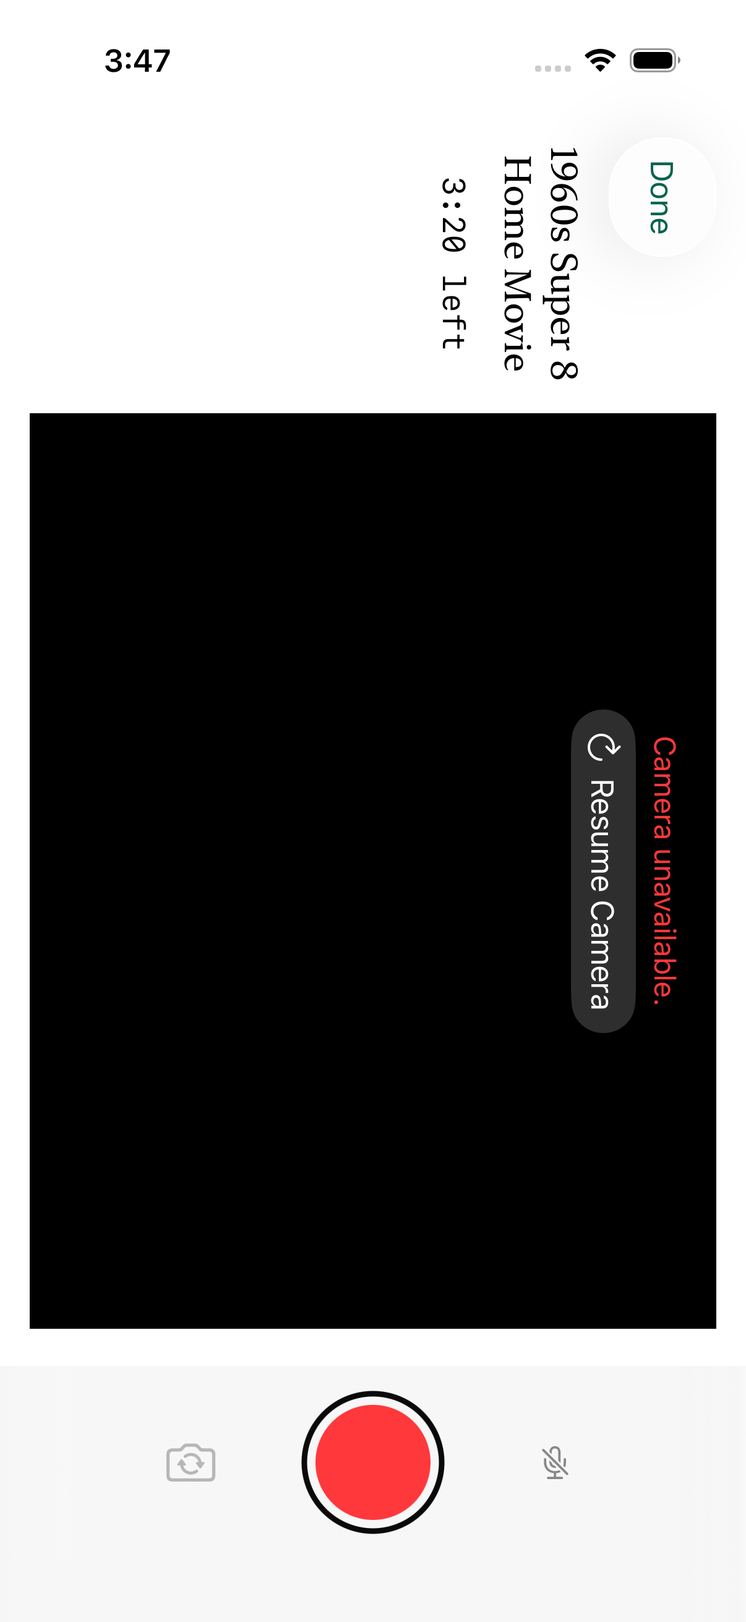
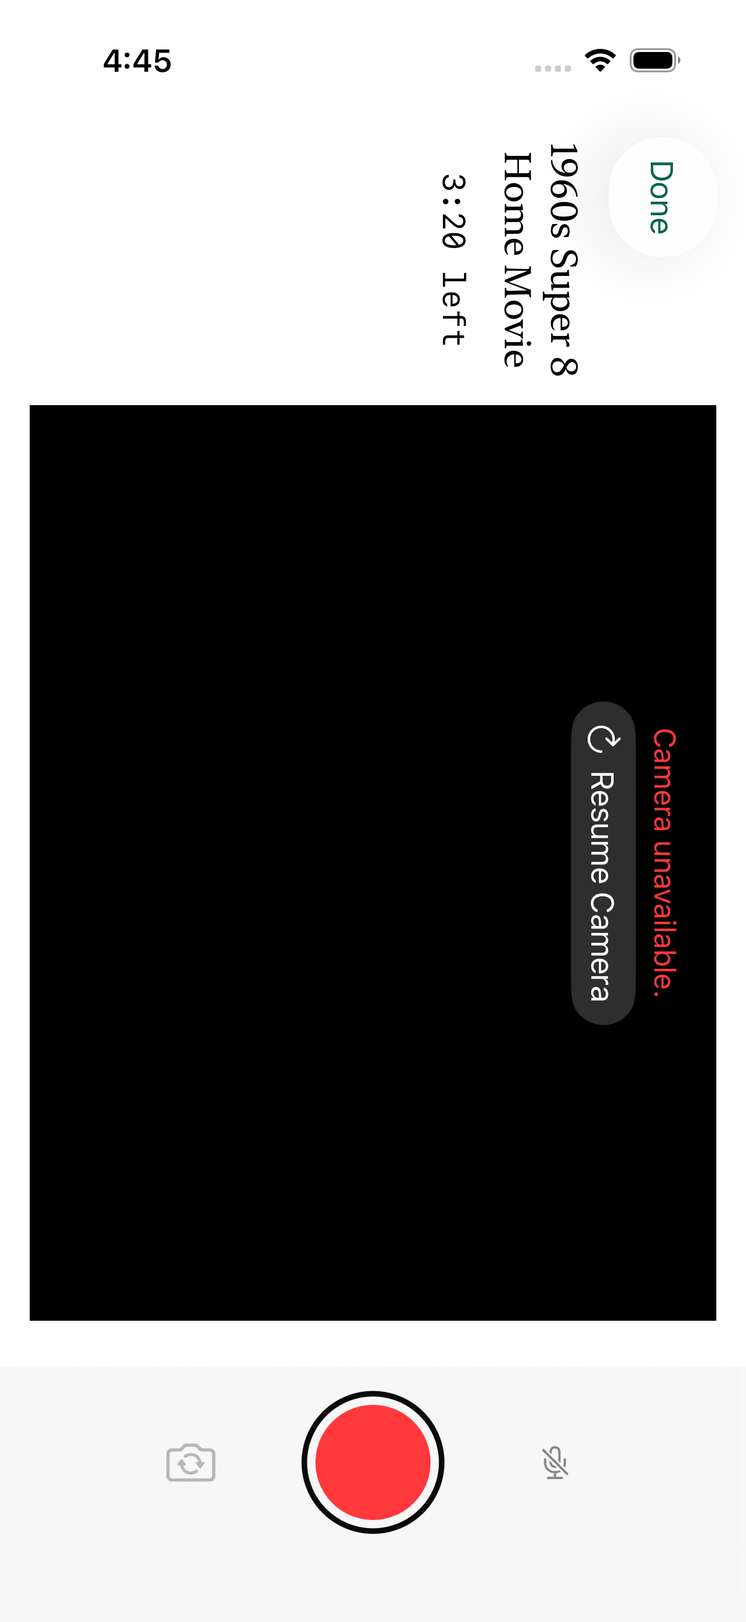
fix(app): keep Done and the header at the top of the shooting screen and centre the viewfinder in the spare room
On the Instant and the 6x6, whose square viewfinder leaves more room than the header needs, the upright header was
centred in the room it was given, which left Done floating below the status bar and a wide gap under the count.
The header's lines now stay against the top in every hold, so Done is in the same place on every Camera and every
iPhone, and the room left over is shared: half to the header's turned length when held sideways, half below the
viewfinder, which so sits centred between the header's lines and the shutter bar.

Adds the Instant to the screen tests, which now also check Done's place, and refreshes the screenshots on the
iPhone SE, iPhone 13 mini and iPhone 17 Pro.

diff --git a/App/Immerse/Tests/CaptureSidewaysTests.swift b/App/Immerse/Tests/CaptureSidewaysTests.swift
@@ -108,13 +108,14 @@ final class CaptureSidewaysTests: XCTestCase {
     /// `available` points of room between its top and the shutter bar, as the screen lays them out in a window.
     private func column(
         available: CGFloat, aspect: CGFloat, controls: CGFloat = 0, turn: HeldTurn = .upright, width: CGFloat = 358
-    ) async throws -> (header: CGRect, viewfinder: CGRect, controls: CGRect, size: CGSize) {
+    ) async throws -> (header: CGRect, firstLine: CGRect, viewfinder: CGRect, controls: CGRect, size: CGSize) {
         let frames = Frames()
         func record(_ name: String) -> (GeometryProxy) -> CGRect { { $0.frame(in: .named("column")) } }
         let view = CaptureColumn(available: available) {
             TurnedBlock(length: 128, reservesLength: true) {
                 VStack(spacing: 12) {
                     Color.clear.frame(height: 44)
+                        .onGeometryChange(for: CGRect.self, of: record("first")) { frames.firstLine = $0 }
                     Color.clear.frame(height: 28)
                     Color.clear.frame(height: 22)
                 }.frame(maxWidth: .infinity)
@@ -140,22 +141,30 @@ final class CaptureSidewaysTests: XCTestCase {
         window.makeKeyAndVisible()
         defer { window.isHidden = true; window.rootViewController = nil }
         try await Task.sleep(for: .milliseconds(300))
-        return (frames.header, frames.viewfinder, frames.controls, host.sizeThatFits(in: CGSize(width: width, height: 3000)))
+        return (frames.header, frames.firstLine, frames.viewfinder, frames.controls,
+                host.sizeThatFits(in: CGSize(width: width, height: 3000)))
     }
 
-    private final class Frames { var header = CGRect.zero, viewfinder = CGRect.zero, controls = CGRect.zero }
+    private final class Frames { var header = CGRect.zero, firstLine = CGRect.zero, viewfinder = CGRect.zero, controls = CGRect.zero }
 
-    /// With room to spare, the viewfinder keeps the screen's full width and the header gets what is left over, as far as
-    /// 300 points, so held on its side its lines need not wrap.
-    func testRoomToSpareGoesToTheHeaderAfterTheViewfinderHasItsFullWidth() async throws {
+    /// With room to spare, the viewfinder keeps the screen's full width and the rest is shared: half to the header, as far as
+    /// 300 points in all, so held on its side its lines need not wrap, and half below the viewfinder, which sits centred in the
+    /// room under the header's lines. Held upright, those lines stay against the top.
+    func testRoomToSpareIsSharedAboveAndBelowTheViewfinderAfterItHasItsFullWidth() async throws {
         let big = try await column(available: 700, aspect: 1)
         XCTAssertEqual(big.viewfinder.width, 358, accuracy: 0.5)
         XCTAssertEqual(big.viewfinder.height, 358, accuracy: 0.5)
-        XCTAssertEqual(big.header.height, 300 - 0, accuracy: 0.5, "The header is capped at 300 points")
-        XCTAssertEqual(big.viewfinder.minY, 300 + 12, accuracy: 0.5)
+        let spare = 700 - 12 - 128 - 358.0
+        XCTAssertEqual(big.header.height, 128 + spare / 2, accuracy: 0.5, "Half the spare room is the header's")
+        XCTAssertEqual(big.viewfinder.minY, 128 + spare / 2 + 12, accuracy: 0.5)
+        XCTAssertEqual(700 - big.viewfinder.maxY, spare / 2, accuracy: 0.5, "Half is below the viewfinder")
+        XCTAssertEqual(big.firstLine.minY, 0, accuracy: 0.5, "Held upright, the header's first line is against the top")
         let tight = try await column(available: 520, aspect: 1)
         XCTAssertEqual(tight.viewfinder.height, 358, accuracy: 0.5, "The viewfinder has its full width first")
-        XCTAssertEqual(tight.header.height, 520 - 358 - 12, accuracy: 0.5, "The header has the rest")
+        XCTAssertEqual(tight.header.height, 128 + (520 - 12 - 128 - 358.0) / 2, accuracy: 0.5)
+        XCTAssertEqual(tight.firstLine.minY, 0, accuracy: 0.5)
+        let huge = try await column(available: 1200, aspect: 1)
+        XCTAssertEqual(huge.header.height, 300, accuracy: 0.5, "The header is capped at 300 points")
     }
 
     /// Short of room, the viewfinder keeps its shape and gives up width, so the whole of it shows above the shutter bar.

diff --git a/App/Immerse/Sources/CaptureColumn.swift b/App/Immerse/Sources/CaptureColumn.swift
@@ -22,8 +22,10 @@ extension View {
 /// that the room leaves after the header and the controls, narrower than the screen where the room is short, and never
 /// smaller than `minimumViewfinder`, below which the screen scrolls instead, as at the largest text sizes.
 ///
-/// Where the room is more than the viewfinder at the screen's full width needs, the header gets the rest, up to
-/// `maximumHeader`, so that held on its side the Camera's name and its count can each read on one line.
+/// Where the room is more than the viewfinder at the screen's full width needs, the rest is shared: half goes above the
+/// viewfinder, to the header (up to `maximumHeader` in all), so that held on its side the Camera's name and its count can
+/// each read on one line, and half below it. Held upright the header's lines stay against the top, so Done is where it is
+/// on every Camera, with the viewfinder centred in the room under them.
 ///
 /// Nothing here depends on how the iPhone is held, so the viewfinder is the same size in the same place in every hold:
 /// the header and the controls reserve their heights for every hold (`TurnedBlock`, `CaptionedSlider`).
@@ -67,7 +69,8 @@ struct CaptureColumn: Layout {
             let ideal = width / aspect
             var height = ideal
             if room - headerMinimum >= ideal {
-                headerHeight = min(max(headerMinimum, room - ideal), max(maximumHeader, headerMinimum))
+                let spare = room - headerMinimum - ideal
+                headerHeight = headerMinimum + min(spare / 2, max(0, maximumHeader - headerMinimum))
             } else {
                 height = max(minimumViewfinder, room - headerMinimum)
             }

diff --git a/App/Immerse/UITests/CaptureSidewaysUITests.swift b/App/Immerse/UITests/CaptureSidewaysUITests.swift
@@ -13,6 +13,12 @@ final class CaptureSidewaysUITests: XCTestCase {
         try check(id: "mediumFormat6x6", name: "6×6", fillsTheRoom: false)
     }
 
+    /// The Instant's square viewfinder keeps the screen's full width where the room allows, so the room left over is
+    /// shared above and below it.
+    func testInstantShootingScreenKeepsItsLayoutHeldSideways() throws {
+        try check(id: "instant1970s", name: "Instant", fillsTheRoom: false)
+    }
+
     /// The tallest viewfinder: the 2:3 box, with the error, the message and Resume Camera over it.
     func testDisposableShootingScreenKeepsItsLayoutHeldSideways() throws {
         try check(id: "disposable1990s", name: "Disposable", fillsTheRoom: true)
@@ -76,6 +82,10 @@ final class CaptureSidewaysUITests: XCTestCase {
         XCTAssertLessThan(upright.window.width, upright.window.height, "The shooting screen is portrait")
         XCTAssertGreaterThan(upright.remaining.width, upright.remaining.height, "Upright, the count reads across")
         try checkFits(upright, app, "upright", fillsTheRoom: fillsTheRoom)
+        // Held upright, Done sits just below the status bar on every Camera and every iPhone, with the name and the count
+        // right under it, whatever room the viewfinder leaves.
+        XCTAssertLessThanOrEqual(upright.done.minY, upright.window.minY + 90, "Done is just below the status bar")
+        XCTAssertLessThanOrEqual(upright.remaining.minY - upright.done.maxY, 70, "The name and the count follow Done closely")
         retainFrames(upright, name: name, hold: "portrait")
         retainScreenshot(name: "\(name)-capture-portrait")
 

diff --git a/App/Immerse/Sources/HeldTurn.swift b/App/Immerse/Sources/HeldTurn.swift
@@ -140,8 +140,9 @@ private struct TurnedLayout: Layout {
     func placeSubviews(in bounds: CGRect, proposal: ProposedViewSize, subviews: Subviews, cache: inout ()) {
         guard let child = subviews.first else { return }
         guard turn.isSideways else {
+            // Against the top: where a reserving block is taller than its upright form, the room is left below it.
             let size = child.sizeThatFits(ProposedViewSize(width: bounds.width, height: nil))
-            child.place(at: CGPoint(x: bounds.minX, y: bounds.midY), anchor: .leading, proposal: ProposedViewSize(size))
+            child.place(at: CGPoint(x: bounds.minX, y: bounds.minY), anchor: .topLeading, proposal: ProposedViewSize(size))
             return
         }
         let size = sidewaysSize(child, proposal)

diff --git a/Evidence/NativeApp/capture-sideways-zoom-068.md b/Evidence/NativeApp/capture-sideways-zoom-068.md
@@ -49,7 +49,9 @@ With the iPhone on its side (`HeldTurn.swift`) they turn to read upright, the ho
 
 - The header (Done, the Camera's name, what is left and, once a Film is complete, "Film complete" or "Pack complete") is one block above the viewfinder.
   It is laid out as the portrait header it is, 128 pt wide at least at the default text size (scaled with Dynamic Type) and as tall as that makes it, then turned as a whole and put against the edge of the screen that is the top for the person holding the iPhone.
-  Where the screen has room to spare, up to 300 pt, it is laid out longer, so the Camera's name and its count each read on one line: the Instant on a tall iPhone does; where the room is short, as on the iPhone SE, they wrap.
+  Held upright its lines stay against the top, so Done sits just below the status bar in the same place on every Camera and every iPhone, with the name and the count right under it.
+  Where the screen has room to spare, half of it is laid out into the header's turned length, up to 300 pt in all, so the Camera's name and its count each read on one line: the Instant on a tall iPhone does; where the room is short, as on the iPhone SE, they wrap.
+  The other half is below the viewfinder, which so sits centred in the room under the header's lines and above the shutter bar.
 - The error, the message, **Open iPhone Settings**, **Resume Camera**, the notes ("Manual focus unavailable on this lens", "Flash unavailable on this lens", "Fixed exposure unavailable on this lens") and the Disposable's low-light cue sit in one dark block over the viewfinder, against the edge that is its top as the iPhone is held, turned as one block that is never longer than the box.
   Being over the viewfinder, a message coming or going never moves it, and the camera icon the empty frame shows gives way to them.
   "Saved" shows there for 2.5 seconds after each capture and then goes; every other notice stays while its cause does.
@@ -95,7 +97,8 @@ No other product string changed.
 
 `CaptureColumn` is a `Layout` of three parts, the header, the viewfinder and the controls, given the room between the top of the screen's safe area and the shutter bar (the size of the `GeometryReader` in `CaptureView`, which already leaves out the safe areas and the bar, less 12 pt above and below).
 It measures the controls first and then the header at its least, which for the header is its portrait height or 128 pt, whichever is more, and gives the viewfinder what is left, down to 220 pt, below which the screen scrolls, as at the largest text sizes; the box keeps its Camera's shape and is as wide as that makes it, at most the screen's width.
-Where the room is more than the viewfinder at the screen's full width needs, the header gets the rest, up to 300 pt.
+Where the room is more than the viewfinder at the screen's full width needs, the rest is shared: half goes above the viewfinder, which makes the header's frame that much taller, up to 300 pt in all, and half below it.
+The first version gave all of it to the header and centred the header's lines in it, which left Done floating about 90 pt below the status bar and a gap of about 80 pt under the count on the Instant and the 6×6 on the iPhone 17 Pro; the lines now stay against the top and the viewfinder is centred.
 Nothing in this depends on how the iPhone is held, so the viewfinder is the same size in the same place in every hold: the header reserves the greater of its upright and its turned heights, and a slider row is as tall as its turned caption in either hold.
 The hosted tests of the column's arithmetic (below) and the screen tests' frames hold it.
 `TurnedBlock` uses `ViewThatFits` only to choose between the turned header and a copy of it that scrolls across the screen, which happens when the turned header is wider than the screen, at the largest text sizes.
@@ -103,7 +106,7 @@ The hosted tests of the column's arithmetic (below) and the screen tests' frames
 
 The viewfinder's box as the screen tests measured it, in points, the same in all three holds in every case (a Film with no controls, since the simulator has no camera to report any, so the 6×6 shows no sliders):
 
-| iPhone (simulator, iOS 26.5) | Screen | 6×6 | Disposable (2:3) | Super 8 (3:4) |
+| iPhone (simulator, iOS 26.5) | Screen | Instant and 6×6 | Disposable (2:3) | Super 8 (3:4) |
 | --- | --- | --- | --- | --- |
 | iPhone SE (3rd generation) | 375 × 667 | 343 × 343 | 247 × 371 | 278 × 371 |
 | iPhone 13 mini | 375 × 812 | 343 × 343 | 301 × 452 | 339 × 452 |
@@ -111,6 +114,7 @@ The viewfinder's box as the screen tests measured it, in points, the same in all
 
 With its two sliders raised, as a camera that can focus by hand reports them, the 6×6's box on the SE is 223 × 223 (the hosted screenshot [iphone-se-6x6-with-controls-portrait.png](capture-sideways-zoom-068/iphone-se-6x6-with-controls-portrait.png)).
 On every one the box ends above the shutter bar, which the screen tests assert, and the Disposable's and the Super 8's end within 40 pt of it, the room being what sets their size.
+The Instant's and the 6×6's squares are as wide as the screen allows, so the room left over (on the iPhone 17 Pro the box runs from 280 pt to 650 pt, and the shutter's frame starts at 744 pt) is shared above and below them; the screen tests assert that Done is within 90 pt of the top of the screen and the count within 70 pt under Done on every Camera and every iPhone.
 
 ### The 6×6's zoom steps
 
@@ -164,7 +168,7 @@ Development center-crops every capture to a square and scales it to 3072 by 3072
 | The held turn follows how the iPhone is held; a block reserving its length is the same height in every hold; a turned block takes the room it needs; a block that does not reserve takes its turned footprint | `CaptureSidewaysTests` (hosted) |
 | The column's arithmetic, laid out in a window: with room to spare the viewfinder keeps the screen's full width and the header gets the rest, to 300 pt; short of room the viewfinder keeps its shape and gives up width, with the controls taking theirs first; it is never under 220 pt; and its frame, the header's height and the controls' frame are identical in all three holds, for the shape of every Camera, with and without controls, at four amounts of room | `CaptureSidewaysTests` (hosted) |
 | Every Camera's shooting screen held upright and on each side at the default and the largest text size, with the lens controls and low-light cue a lens would raise, kept as screenshots | `CaptureSidewaysTests.testCaptureScreensHeldSidewaysKeepTheLayoutAndTurnTheText` |
-| On the 6×6, the Disposable and the Super 8, in a simulator turned upright, to its left and to its right, on the iPhone SE, the iPhone 13 mini and the iPhone 17 Pro: the window stays portrait; the viewfinder's and the shutter's frames are identical in all three holds; the whole viewfinder is above the shutter bar and inside the screen, and for the Disposable and the Super 8 within 40 pt of the bar; every notice, button and note drawn in the viewfinder lies within its frame, so none is cut off; Resume Camera is over it; the count turns to read upright; Done keeps a 44 pt target, stays on screen, clear of the viewfinder and of the count; and after Done the Film screen turns with the iPhone | `CaptureSidewaysUITests` |
+| On the Instant, the 6×6, the Disposable and the Super 8, in a simulator turned upright, to its left and to its right, on the iPhone SE, the iPhone 13 mini and the iPhone 17 Pro: the window stays portrait; the viewfinder's and the shutter's frames are identical in all three holds; the whole viewfinder is above the shutter bar and inside the screen, and for the Disposable and the Super 8 within 40 pt of the bar; every notice, button and note drawn in the viewfinder lies within its frame, so none is cut off; Resume Camera is over it; the count turns to read upright; held upright, Done is just below the status bar with the name and the count under it; Done keeps a 44 pt target, stays on screen, clear of the viewfinder and of the count; and after Done the Film screen turns with the iPhone | `CaptureSidewaysUITests` |
 | The 6×6's zoom steps enabled, with the selected step filled, light and dark, upright and turned, kept as screenshots | `CaptureSidewaysTests.testTheZoomStepsInTheirEnabledState` |
 | The camera screen's Done, now a plain button and not in a navigation bar, in the Populated Journal Harness's Instant, permission and Original-question flows | `PopulatedJournalHarnessTests` (`CameraPermissionWorkflowTests`, three `PopulatedWorkflowTests`) |
 | The 6×6's Load Film note and its text measured at all 12 sizes | `JournalIntegrationTests`, `ContentSizeTests` |
@@ -175,8 +179,8 @@ Only after the camera has closed is the simulator turned to its side, which show
 ### Runs
 
 `swift test --package-path Packages/NativeAdapters` passed (58 tests, 15 of them the new `ZoomStepTests`).
-On an iPhone 17 Pro simulator on iOS 26.5, the whole `ImmerseTests` target passed except the four StoreKit tests, which need the iOS 26.2 fixture simulator that validation boots for them and fail on any other simulator with "Local StoreKit fixture is not active"; its `CaptureSidewaysTests` are 12 tests, 11 of which also passed on the iPhone SE and the iPhone 13 mini before the merge of 067.
-The three `CaptureSidewaysUITests` passed on the iPhone SE, the iPhone 13 mini and the iPhone 17 Pro, about 4 minutes each, and again on the iPhone 17 Pro after `main`'s Instant change was merged in, and so did the Load Film text tests at the extra small, large and largest sizes and the 6×6's extra-small Load audit, whose copy changed, and the landscape Settings test, which a hold that leaked would break.
+On an iPhone 17 Pro simulator on iOS 26.5, the whole `ImmerseTests` target passed except the four StoreKit tests, which need the iOS 26.2 fixture simulator that validation boots for them and fail on any other simulator with "Local StoreKit fixture is not active"; its `CaptureSidewaysTests` are 12 tests, which also passed on the iPhone SE.
+The four `CaptureSidewaysUITests` passed on the iPhone SE, the iPhone 13 mini and the iPhone 17 Pro, about 5 minutes each, and the three of them that existed before the merge passed on the iPhone 17 Pro again after `main`'s Instant change was merged in, and so did the Load Film text tests at the extra small, large and largest sizes and the 6×6's extra-small Load audit, whose copy changed, and the landscape Settings test, which a hold that leaked would break.
 The Populated Journal Harness tests named above passed, and after the merge of 067 so did the harness's Instant flows at the camera (print, question, discard, two prints and an unanswered question) with `CameraPermissionWorkflowTests`.
 The Release build, with the Debug-only hooks (`CaptureController.hold(forTesting:)`, `setForTesting(phase:)` and `CaptureView.opensCamera`) compiled out, passed `Scripts/verify-release-excludes-testing-unlock.sh`.
 
@@ -212,6 +216,13 @@ These are the screen tests' own screenshots of the app, not a drawing of it.
 | --- | --- | --- |
 | ![Disposable on an iPhone SE, upright](capture-sideways-zoom-068/iphone-se-disposable-portrait.png) | ![Disposable on an iPhone SE, top to the left](capture-sideways-zoom-068/iphone-se-disposable-left.png) | ![Disposable on an iPhone SE, top to the right](capture-sideways-zoom-068/iphone-se-disposable-right.png) |
 
+**The Instant and the 6×6 on the iPhone SE**, where the square keeps the screen's width and Done, the name and the count are at the top, as on every Camera:
+
+| | Upright | Top to the left | Top to the right |
+| --- | --- | --- | --- |
+| Instant | ![Instant on an iPhone SE, upright](capture-sideways-zoom-068/iphone-se-instant-portrait.png) | ![Instant on an iPhone SE, top to the left](capture-sideways-zoom-068/iphone-se-instant-left.png) | ![Instant on an iPhone SE, top to the right](capture-sideways-zoom-068/iphone-se-instant-right.png) |
+| 6×6 | ![6×6 on an iPhone SE, upright](capture-sideways-zoom-068/iphone-se-6x6-portrait.png) | ![6×6 on an iPhone SE, top to the left](capture-sideways-zoom-068/iphone-se-6x6-left.png) | ![6×6 on an iPhone SE, top to the right](capture-sideways-zoom-068/iphone-se-6x6-right.png) |
+
 **The iPhone 13 mini**, the Disposable in the same state:
 
 | Upright | Top to the left | Top to the right |
@@ -225,10 +236,11 @@ Nothing here is the camera's own: the sliders and the steps are what a lens woul
 | --- | --- | --- |
 | ![6×6 on an iPhone SE, upright](capture-sideways-zoom-068/iphone-se-6x6-with-controls-portrait.png) | ![6×6 on an iPhone SE, top to the left](capture-sideways-zoom-068/iphone-se-6x6-with-controls-left.png) | ![6×6 on an iPhone SE, top to the right](capture-sideways-zoom-068/iphone-se-6x6-with-controls-right.png) |
 
-**The iPhone 17 Pro**, the three Cameras the screen tests load:
+**The iPhone 17 Pro**, the four Cameras the screen tests load; the Instant's and the 6×6's squares keep the screen's width, so the viewfinder sits centred in the room under the name and the count:
 
 | | Upright | Top to the left | Top to the right |
 | --- | --- | --- | --- |
+| Instant | ![Instant held upright](capture-sideways-zoom-068/iphone-17-pro-instant-portrait.png) | ![Instant held with its top to the left](capture-sideways-zoom-068/iphone-17-pro-instant-left.png) | ![Instant held with its top to the right](capture-sideways-zoom-068/iphone-17-pro-instant-right.png) |
 | 6×6 | ![6×6 held upright](capture-sideways-zoom-068/iphone-17-pro-6x6-portrait.png) | ![6×6 held with its top to the left](capture-sideways-zoom-068/iphone-17-pro-6x6-left.png) | ![6×6 held with its top to the right](capture-sideways-zoom-068/iphone-17-pro-6x6-right.png) |
 | Disposable | ![Disposable held upright](capture-sideways-zoom-068/iphone-17-pro-disposable-portrait.png) | ![Disposable held with its top to the left](capture-sideways-zoom-068/iphone-17-pro-disposable-left.png) | ![Disposable held with its top to the right](capture-sideways-zoom-068/iphone-17-pro-disposable-right.png) |
 | Super 8 | ![Super 8 held upright](capture-sideways-zoom-068/iphone-17-pro-super8-portrait.png) | ![Super 8 held with its top to the left](capture-sideways-zoom-068/iphone-17-pro-super8-left.png) | ![Super 8 held with its top to the right](capture-sideways-zoom-068/iphone-17-pro-super8-right.png) |

diff --git a/AGENTS.md b/AGENTS.md
@@ -21,7 +21,7 @@ This file is the project's committed home for project-intrinsic agent knowledge:
 - Movie capacity is whole 30 fps frames (`MovieFrames` in `FilmDomain/Film.swift`): compare, cap and complete in frames, never in summed seconds. Movie capture's native 4:3 format size is provisional pending DEC-04. New-Film entitlement is decided only in `TrialCoordinator.load`; its Trial grant to a lapsed subscriber is a provisional default for PRD open question 7, not a decision.
 - Recovery and privacy removal must treat only a confirmed-missing path as absent: use `FileManager.itemExists`/`contentsOfDirectoryIfPresent`/`removeItemIfPresent` (`FilmPersistence/FilePresence.swift`), never a `fileExists` gate, which also returns false for an existing uninspectable item. User-facing failure text goes through `FailureCopy` in `App/Immerse/Sources/FilmPresentation.swift`, never raw `localizedDescription`. Remaining and capacity Movie time (catalog, Load screen, Journal row, Film detail and the capture line, including its recording countdown) goes through `MovieDurationText` there as M:SS with a spoken VoiceOver label; only the early-completion confirmation states exact unused seconds (PRD FR-06), and clip rows show exact clip durations. Keep the root tint a concrete `Color("AccentColor")` (iOS 26 bottom toolbars resolve `Color.accentColor` to system blue) and style filled buttons with `primaryAction()` or `.tint(.primaryAction)`, since the dark-mode accent is too light under white labels (`Evidence/NativeApp/darkroom-gesture-tint-047.md`). Check screens in dark mode and on an iPhone SE (3rd generation) simulator too; `Evidence/NativeApp/visual-sweep-048.md` found defects both ways. `Evidence/NativeApp/permission-storage-failures-045.md` records the reproductions; adding a file to a local package can leave dependents' SwiftPM build plans stale until `swift package clean`.
 - `CaptureBehavior` (`Packages/NativeAdapters`) is the single per-Camera capture configuration; `Evidence/NativeApp/capture-behavior-prd2-slice2.md` explains the Disposable's per-capture fixed exposure (EV 12 and the 2-stop cue are provisional) and the unproven device caveats. Only the front preview is mirrored (the 6×6's rear reversal was withdrawn on 2026-10-16); never mirror or reverse an output connection.
-- The shooting screen (`CaptureView`) keeps the portrait layout in every hold and only its words and icons turn (the captain, 2026-10-16, "Like iPhone Camera"; `Evidence/NativeApp/capture-sideways-zoom-068.md`). `HeldTurn.swift` turns them: `TurnedBlock` lays a block out and turns it as a block, and a block wider than the screen once turned scrolls across it. `CaptureColumn.swift` sizes the screen: the viewfinder is the largest box of its Camera's shape that the room above the shutter bar leaves after the header and the controls (the reader's size in `CaptureView`, which already excludes the safe areas and the bar), so the whole of it always shows and it is the same in every hold, and the header, whose `reservesLength` keeps its height equal in every hold, gets any room left over. Anything that can come and go (the error, the message, Resume Camera, the lens notes, the low-light cue) sits in one block over the viewfinder, never in the column, so it cannot move the viewfinder; the column's other parts reserve their heights for every hold (`CaptionedSlider`), so keep any new text on that screen inside a notice or a reserved block. At the largest text sizes the notices move into the header and the screen scrolls. `InterfaceOrientationLock.swift` holds the window to portrait through `ImmerseAppDelegate` while the screen is up and turns it to the capture controller's held orientation when it leaves, because `UIDevice.orientation` is valid only while the screen asks for orientation notifications; `Probes/PopulatedJournalHarness` compiles the app's sources without the delegate, so it has no hold. XCTest taps in the device's frame, so it cannot tap while the iPhone is sideways over this portrait interface: rotate back before a tap. The 6×6's zoom steps (`ZoomSteps.swift`) are derived from the lenses the camera API reports, run on each physical lens as the session's input, and include a sensor crop only where the API reports one; never add a step it does not report, and keep the lens list read-only from the rear virtual device, which is never the capture device (`Packages/NativeAdapters/README.md`).
+- The shooting screen (`CaptureView`) keeps the portrait layout in every hold and only its words and icons turn (the captain, 2026-10-16, "Like iPhone Camera"; `Evidence/NativeApp/capture-sideways-zoom-068.md`). `HeldTurn.swift` turns them: `TurnedBlock` lays a block out and turns it as a block, and a block wider than the screen once turned scrolls across it. `CaptureColumn.swift` sizes the screen: the viewfinder is the largest box of its Camera's shape that the room above the shutter bar leaves after the header and the controls (the reader's size in `CaptureView`, which already excludes the safe areas and the bar), so the whole of it always shows and it is the same in every hold, and the header, whose `reservesLength` keeps its height equal in every hold and whose lines stay against the top when upright, gets half of any room left over, with the other half below the viewfinder, so it sits centred. Anything that can come and go (the error, the message, Resume Camera, the lens notes, the low-light cue) sits in one block over the viewfinder, never in the column, so it cannot move the viewfinder; the column's other parts reserve their heights for every hold (`CaptionedSlider`), so keep any new text on that screen inside a notice or a reserved block. At the largest text sizes the notices move into the header and the screen scrolls. `InterfaceOrientationLock.swift` holds the window to portrait through `ImmerseAppDelegate` while the screen is up and turns it to the capture controller's held orientation when it leaves, because `UIDevice.orientation` is valid only while the screen asks for orientation notifications; `Probes/PopulatedJournalHarness` compiles the app's sources without the delegate, so it has no hold. XCTest taps in the device's frame, so it cannot tap while the iPhone is sideways over this portrait interface: rotate back before a tap. The 6×6's zoom steps (`ZoomSteps.swift`) are derived from the lenses the camera API reports, run on each physical lens as the session's input, and include a sensor crop only where the API reports one; never add a step it does not report, and keep the lens list read-only from the rear virtual device, which is never the capture device (`Packages/NativeAdapters/README.md`).
 - `Evidence/NativeApp/capture-backend-quiescence-040.md` records bounded backend staging cleanup: missing staging directories are empty during cleanup, same-directory committed-file cleanup uses standardized paths, and hosted iOS tests cover cancel-before/during recovery with an injected committer. It is not real camera callback, storage-pressure, physical interruption or hardware proof.
 - `Evidence/NativeApp/movie-player-cache-042.md` records the Movie player/cache diagnosis: generic player disappearance after first discard is not a product requirement, runtime tests own stale assembled-Movie retirement, and populated UI tests own stable survivor/final empty-Movie states. Hardware playback/cache/fidelity remains unaccepted.
 - `Evidence/NativeApp/full-capacity-runtime-043.md` records FilmRuntime full-capacity software coverage for Disposable 27, Instant 10 final print, 6x6 12, Super 8 200s and 16mm 165s (the 16mm capacity is 167 s since PRD 2.1 slice 1; that evidence predates it). It is not physical capture timing, iPhone 11 performance or storage-pressure proof.

diff --git a/Evidence/NativeApp/manual-validation.md b/Evidence/NativeApp/manual-validation.md
@@ -1828,7 +1828,7 @@ The authority and stop conditions at the top of this plan apply to each of them 
   The whole viewfinder shows above the shutter bar on every Camera: it is the largest box of its shape that the room leaves after the header and the controls, narrower than the screen where the room is short (the Disposable, the Super 8 and the 16mm, and the 6×6 with its two sliders), and it never changes size when a message comes or goes.
   Held upright, the screen is as it was except that **Done** is a button at the top of the screen's own content, not in a navigation bar, and the header keeps the room it needs turned, so the viewfinder sits a little lower.
 - Held on its side, the picture in the viewfinder is a landscape window, centered in the box, in the shape the Camera develops to (a square stays square); the box shows black around it where it is wider than tall.
-- Held on its side, the header (**Done**, the Camera's name, what is left and the status of a complete Film) turns as one block, so it reads upright and sits against the edge of the screen that is the top for you; where the screen has room to spare, as on a tall iPhone with a square viewfinder, the name and the count each read on one line.
+- Held on its side, the header (**Done**, the Camera's name, what is left and the status of a complete Film) turns as one block, so it reads upright and sits against the edge of the screen that is the top for you; where the screen has room to spare, as on a tall iPhone with a square viewfinder, the name and the count each read on one line, and the viewfinder sits centred in the room under the header's lines, with Done in the same place just below the status bar on every Camera.
   The error, the message, **Open iPhone Settings**, **Resume Camera**, the notes ("... unavailable on this lens") and the Disposable's low-light cue sit in one dark block over the viewfinder, against its top edge as you hold the iPhone, so a message never moves the viewfinder; "Saved" shows there for a moment after each capture.
   The focus and exposure captions turn beside their sliders, and the zoom steps turn too.
   At the largest text sizes the error, the message, the buttons and the notes are part of the header instead, where they scroll.
